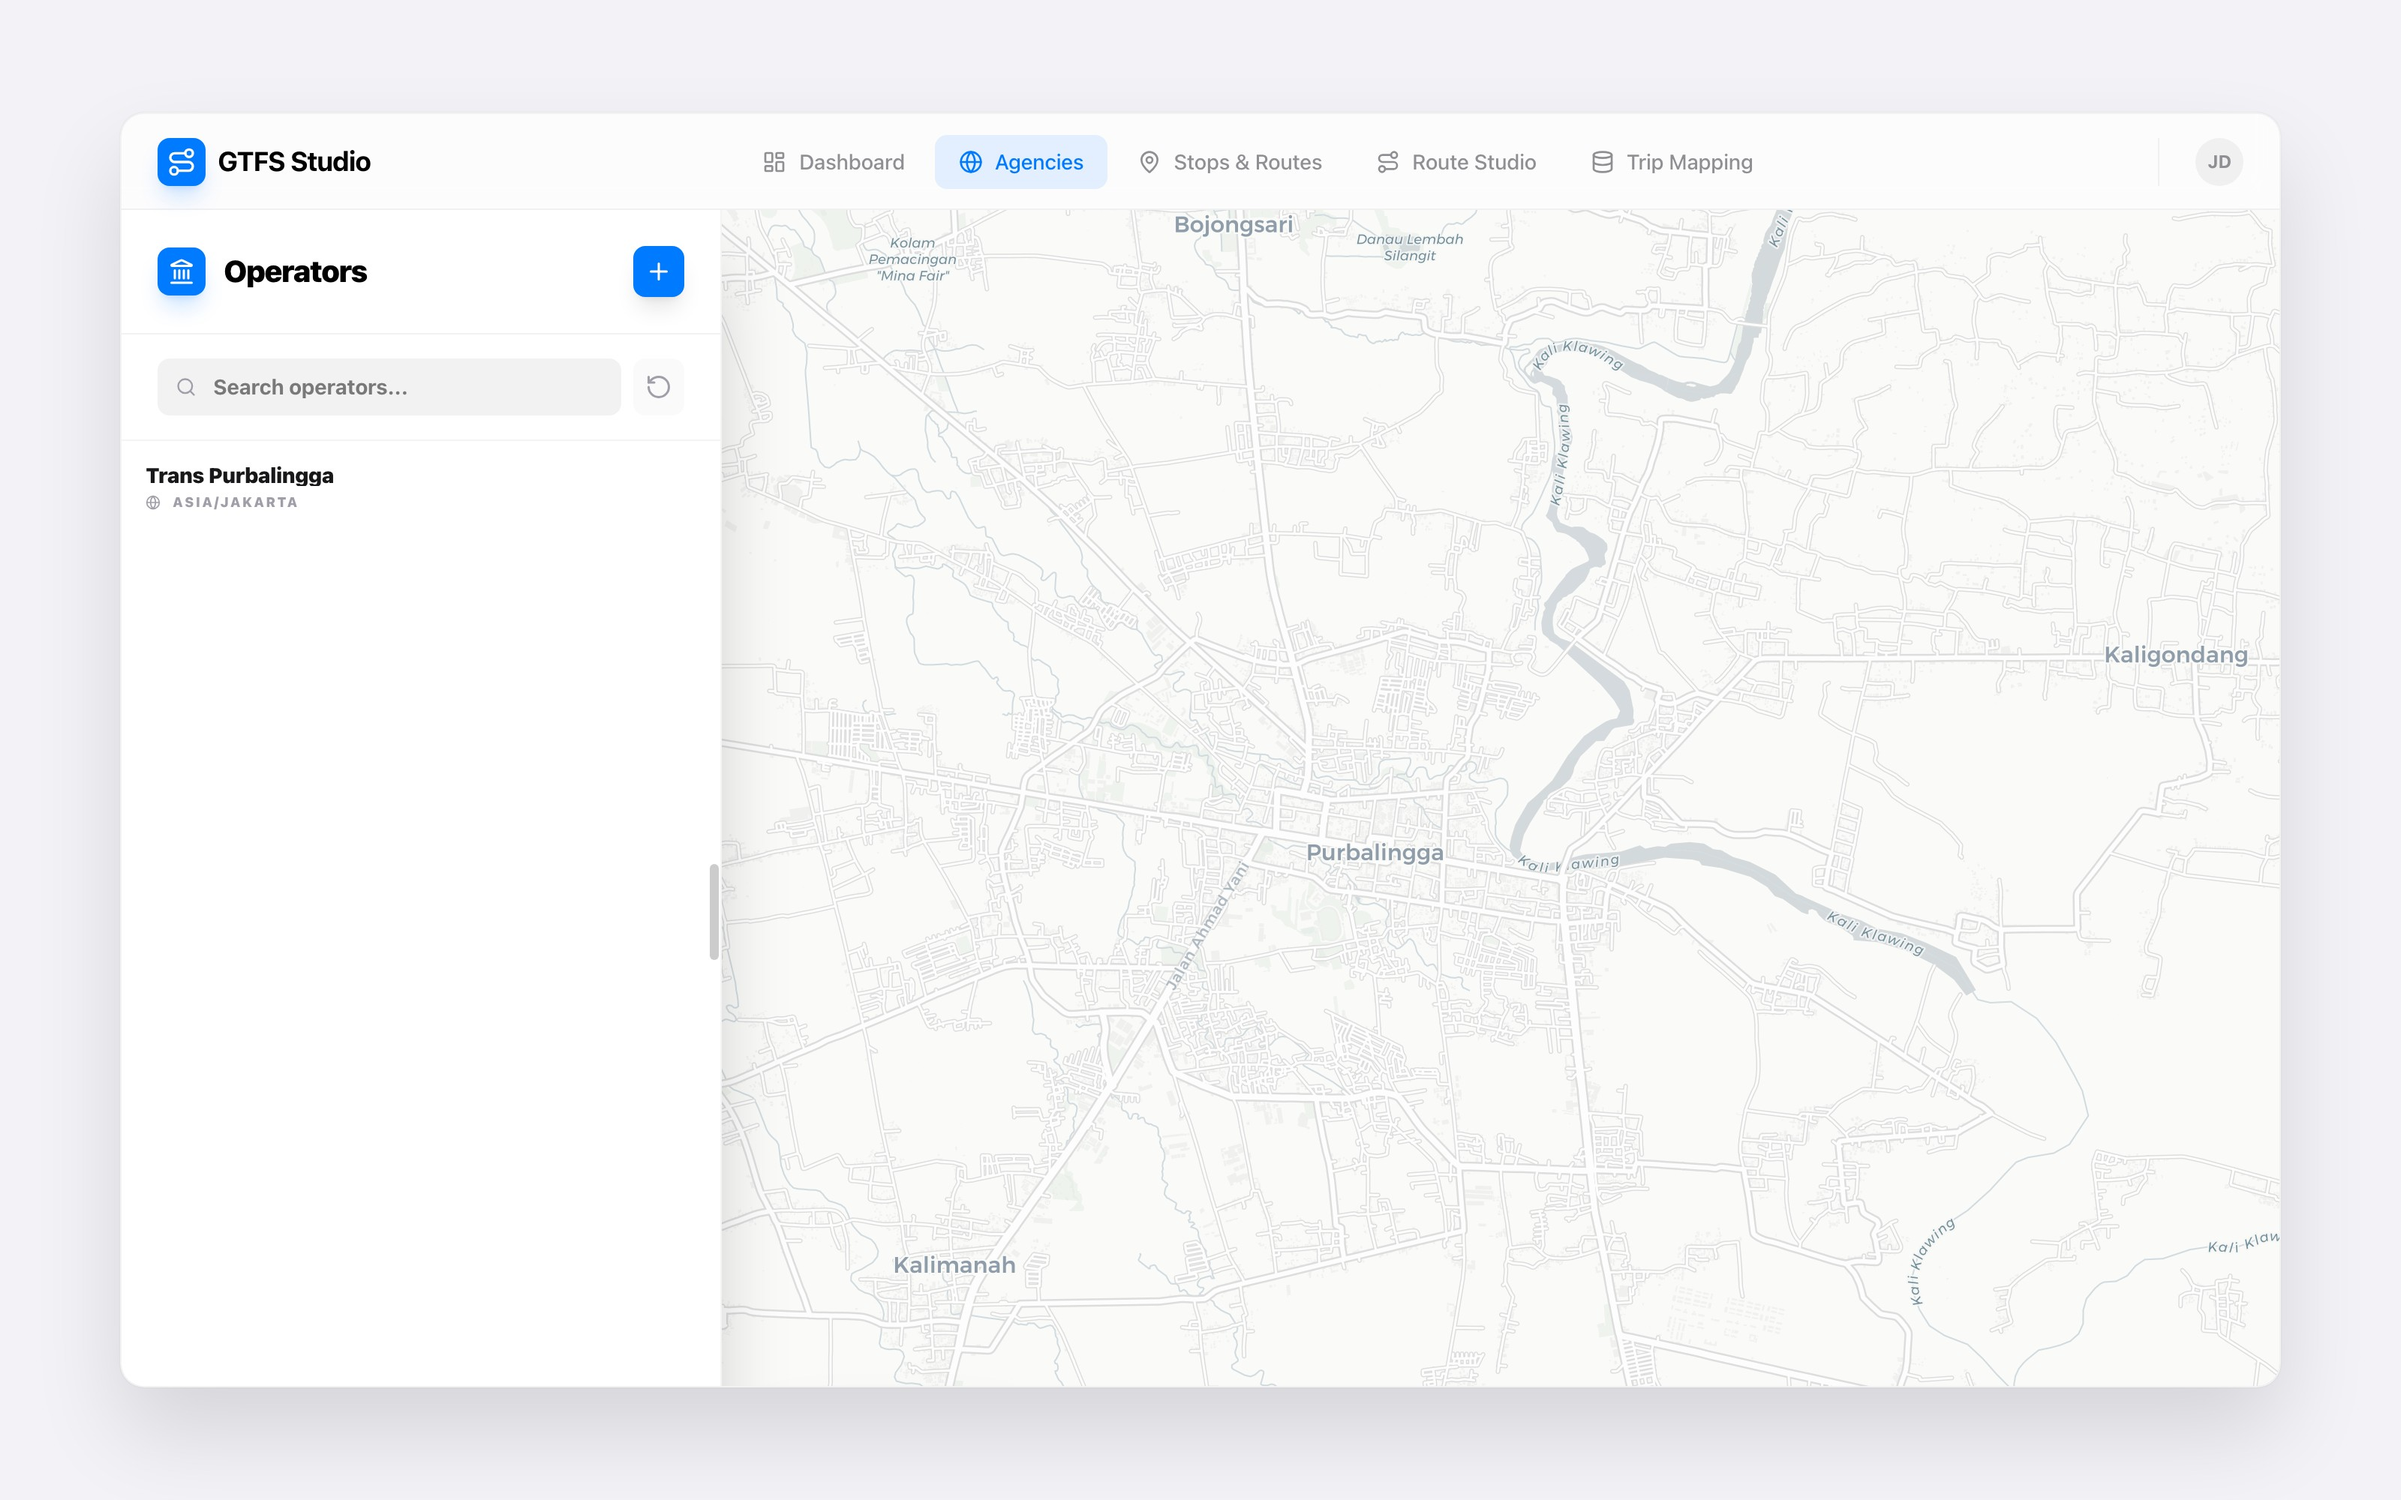
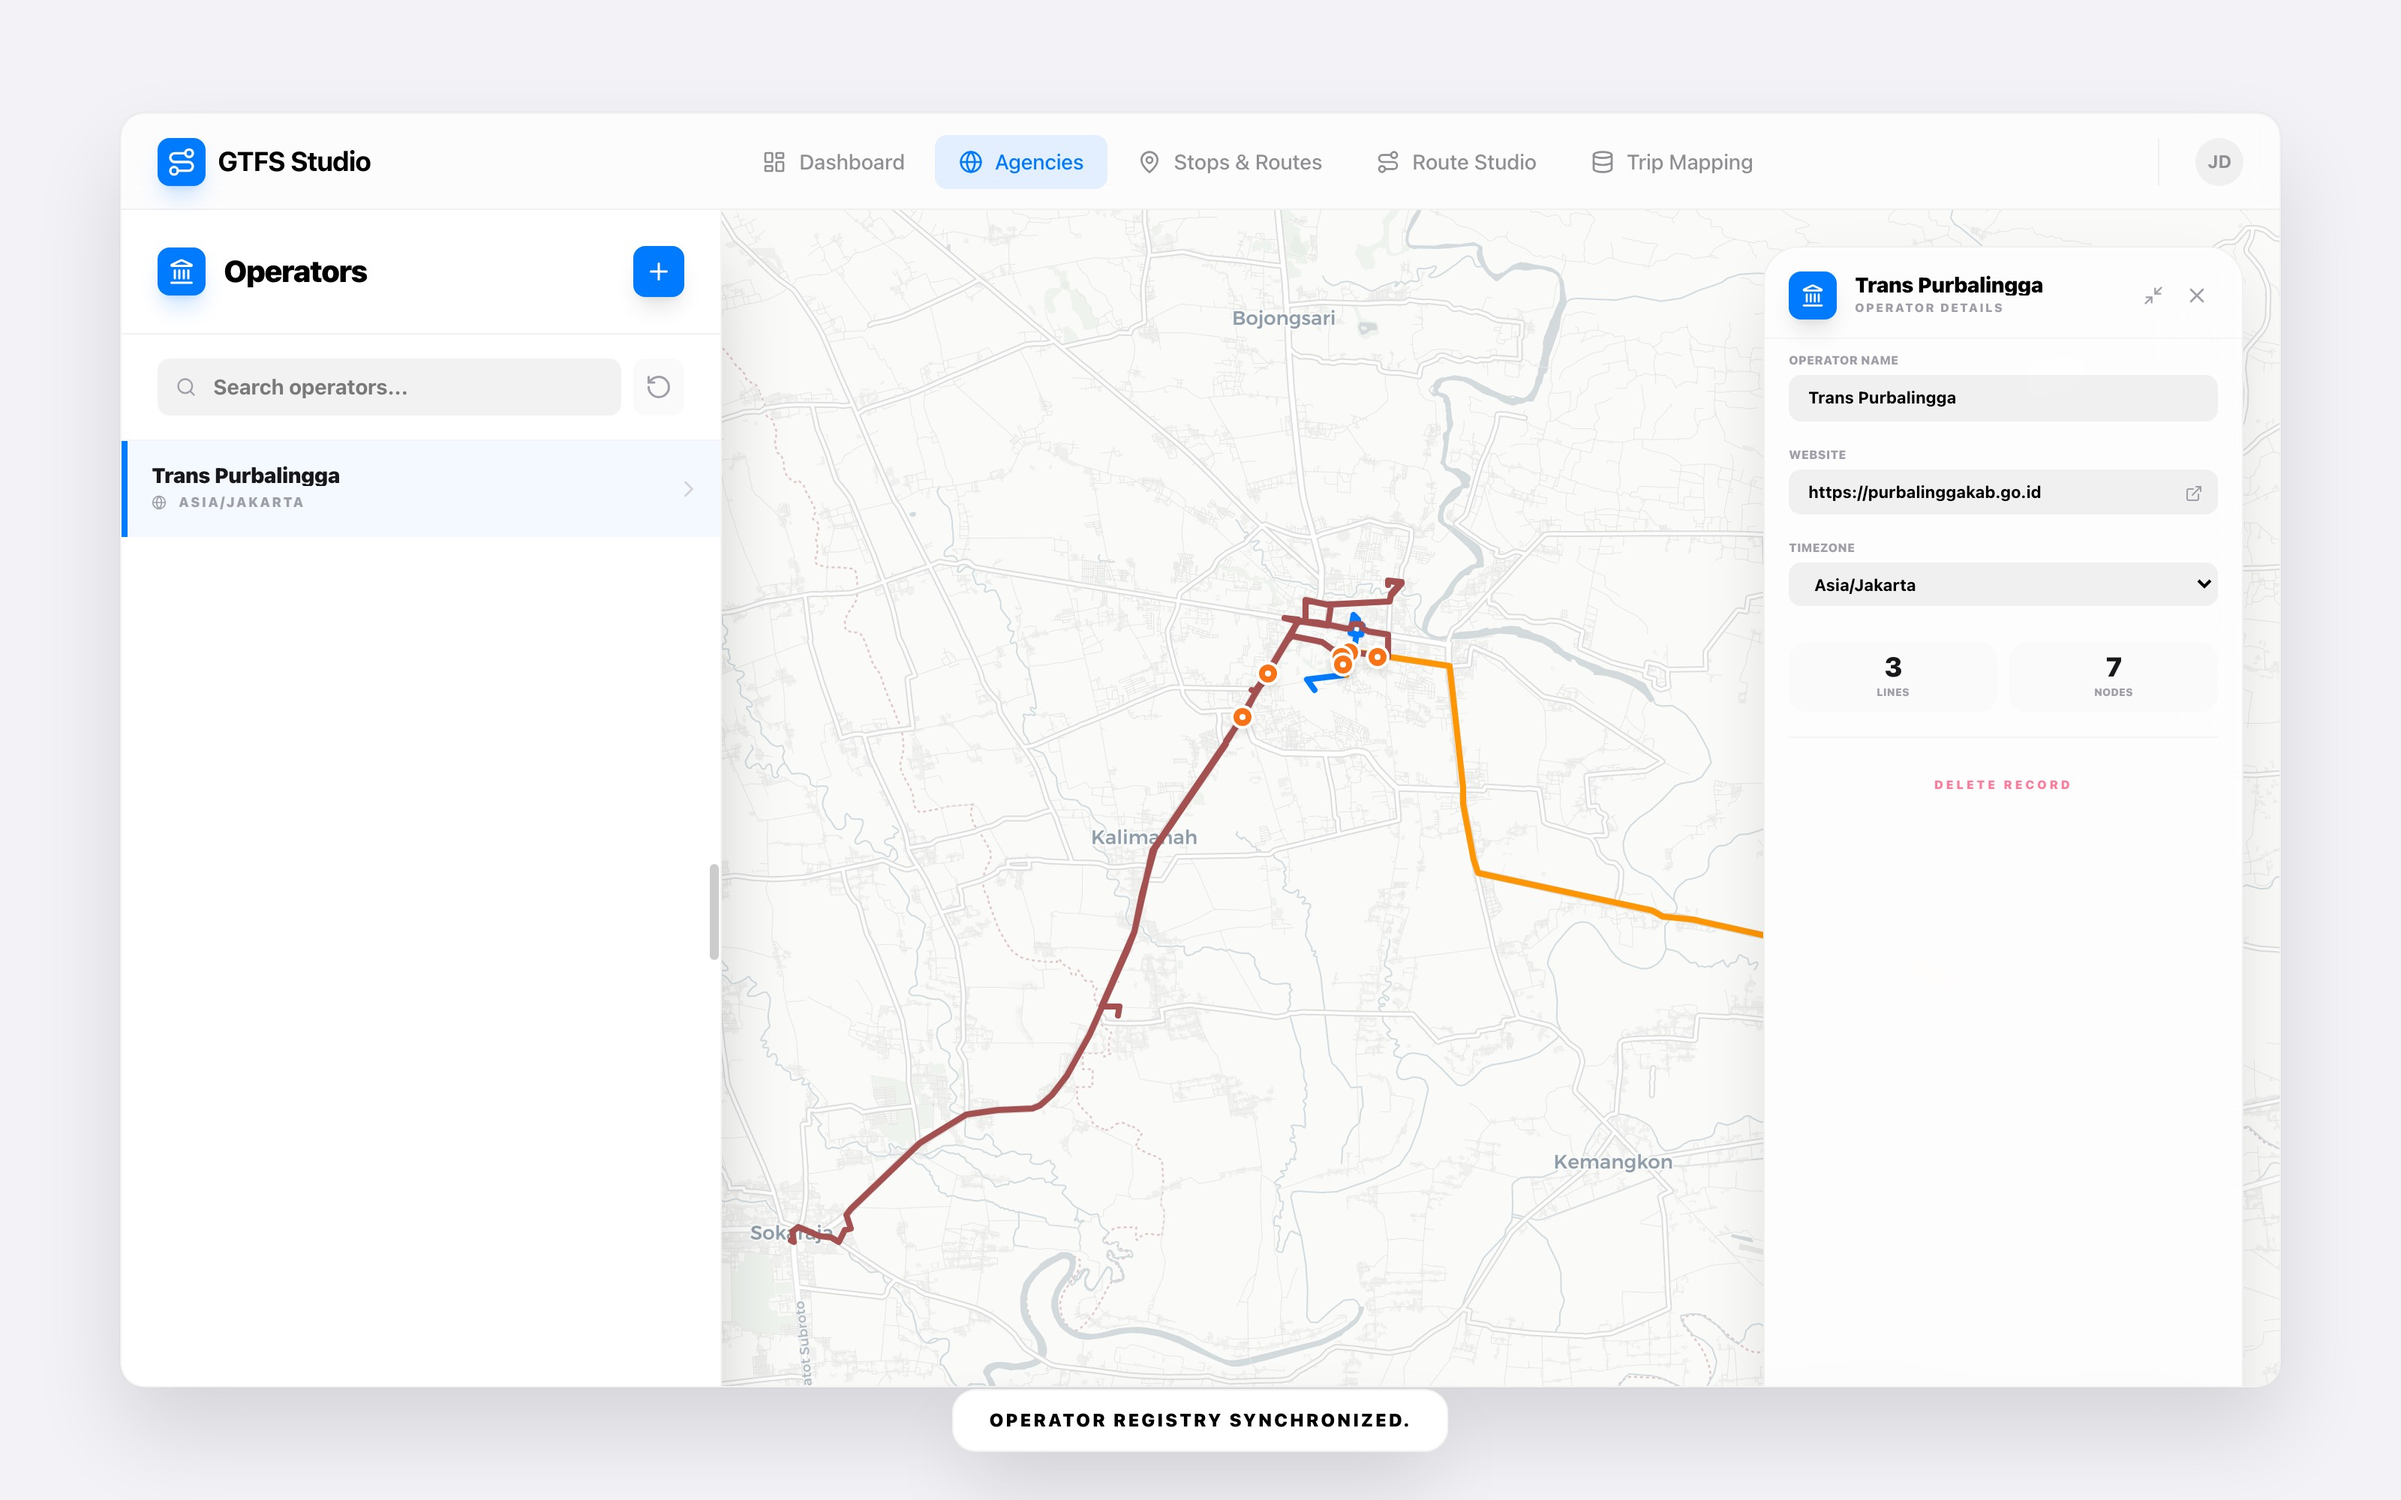
docs: refresh production screenshots with active states and micro-interactions, update README showcase

diff --git a/scripts/capture_screenshots.js b/scripts/capture_screenshots.js
@@ -8,6 +8,7 @@ const PAGES = [
   { name: 'route-studio-path', url: 'http://localhost:5173/routes' },
   { name: 'route-studio-info', url: 'http://localhost:5173/routes' },
   { name: 'trip-mapping', url: 'http://localhost:5173/trips' },
+  { name: 'micro-interactions', url: 'http://localhost:5173/stops' }, // New interaction showcase
 ];
 
 const OUTPUT_DIR = path.join(__dirname, '..', 'assets', 'screenshots');
@@ -16,7 +17,7 @@ const OUTPUT_DIR = path.join(__dirname, '..', 'assets', 'screenshots');
   console.log('🚀 Starting automated screenshot capture with framed mockups...');
   const browser = await chromium.launch();
   const context = await browser.newContext({
-    viewport: { width: 1600, height: 1000 }, // Larger viewport to accommodate frame
+    viewport: { width: 1600, height: 1000 },
     deviceScaleFactor: 2,
   });
   const page = await context.newPage();
@@ -28,40 +29,53 @@ const OUTPUT_DIR = path.join(__dirname, '..', 'assets', 'screenshots');
         console.log(`📸 Capturing ${item.name}...`);
         await page.goto(item.url, { waitUntil: 'networkidle' });
         
-        // Interaction logic
+        // --- Interaction Logic ---
+        
+        // Common selection logic for lists
+        const selectFirstItem = async () => {
+            await page.waitForSelector('div[class*="cursor-pointer"]', { timeout: 10000 });
+            const items = await page.$$('div[class*="cursor-pointer"]');
+            if (items.length > 0) await items[0].click();
+        };
+
         if (item.name === 'route-studio-path') {
-            await page.click('div[onClick]:has-text("K1")', { timeout: 5000 }).catch(() => {}); 
-            await page.waitForTimeout(2000);
-            await page.click('div:has-text("Path")', { timeout: 5000 }).catch(() => {});
+            await selectFirstItem();
+            await page.waitForTimeout(1000);
+            await page.click('button:has-text("Path")').catch(() => {});
             await page.waitForTimeout(2000);
         }
         
         if (item.name === 'route-studio-info') {
-            await page.click('div[onClick]:has-text("K1")', { timeout: 5000 }).catch(() => {});
-            await page.waitForTimeout(2000);
-            await page.click('div:has-text("Info")', { timeout: 5000 }).catch(() => {});
+            await selectFirstItem();
+            await page.waitForTimeout(1000);
+            await page.click('button:has-text("Details")').catch(() => {});
             await page.waitForTimeout(2000);
         }
 
         if (item.name === 'agencies') {
-            await page.click('div[onClick]:has-text("Trans")', { timeout: 5000 }).catch(() => {});
-            await page.waitForTimeout(3000);
-        }
-
-        if (item.name === 'stop-and-routes') {
+            await selectFirstItem();
             await page.waitForTimeout(3000);
         }
 
         if (item.name === 'trip-mapping') {
-            await page.click('div[onClick]:has-text("K1")', { timeout: 5000 }).catch(() => {});
+            await selectFirstItem();
             await page.waitForTimeout(3000);
+        }
+
+        if (item.name === 'micro-interactions') {
+            // Trigger a hover effect on a stop to show the Orange Pulse and associated Routes
+            await page.waitForSelector('div[class*="cursor-pointer"]', { timeout: 10000 });
+            const stops = await page.$$('div[class*="cursor-pointer"]');
+            if (stops.length > 1) {
+                await stops[1].hover(); // Hover the second stop for visual depth
+                await page.waitForTimeout(1500);
+            }
         }
 
         // --- Inject Frame Effect ---
         await page.evaluate(() => {
-            // Apply a frame/window look to the entire body
             const body = document.body;
-            body.style.backgroundColor = '#F2F2F7'; // Frame color
+            body.style.backgroundColor = '#F2F2F7';
             body.style.padding = '40px';
             body.style.display = 'flex';
             body.style.justifyContent = 'center';
@@ -86,7 +100,7 @@ const OUTPUT_DIR = path.join(__dirname, '..', 'assets', 'screenshots');
             path: path.join(OUTPUT_DIR, `${item.name}.jpg`),
             quality: 90,
             type: 'jpeg',
-            fullPage: true // Capture the entire framed viewport
+            fullPage: true
         });
     } catch (err) {
         console.error(`❌ Failed to capture ${item.name}: ${err.message}`);

diff --git a/README.md b/README.md
@@ -38,6 +38,9 @@ A professional, full-stack transit management ecosystem designed for designing, 
 ### Trip Data Mapping
 ![Trip Mapping](./assets/screenshots/trip-mapping.jpg)
 
+### Spatial Micro-Interactions (Hover Discovery & Pulsing Feedback)
+![Micro Interactions](./assets/screenshots/micro-interactions.jpg)
+
 ## 🏗 Architecture & Tech Stack
 
 ### Backend
